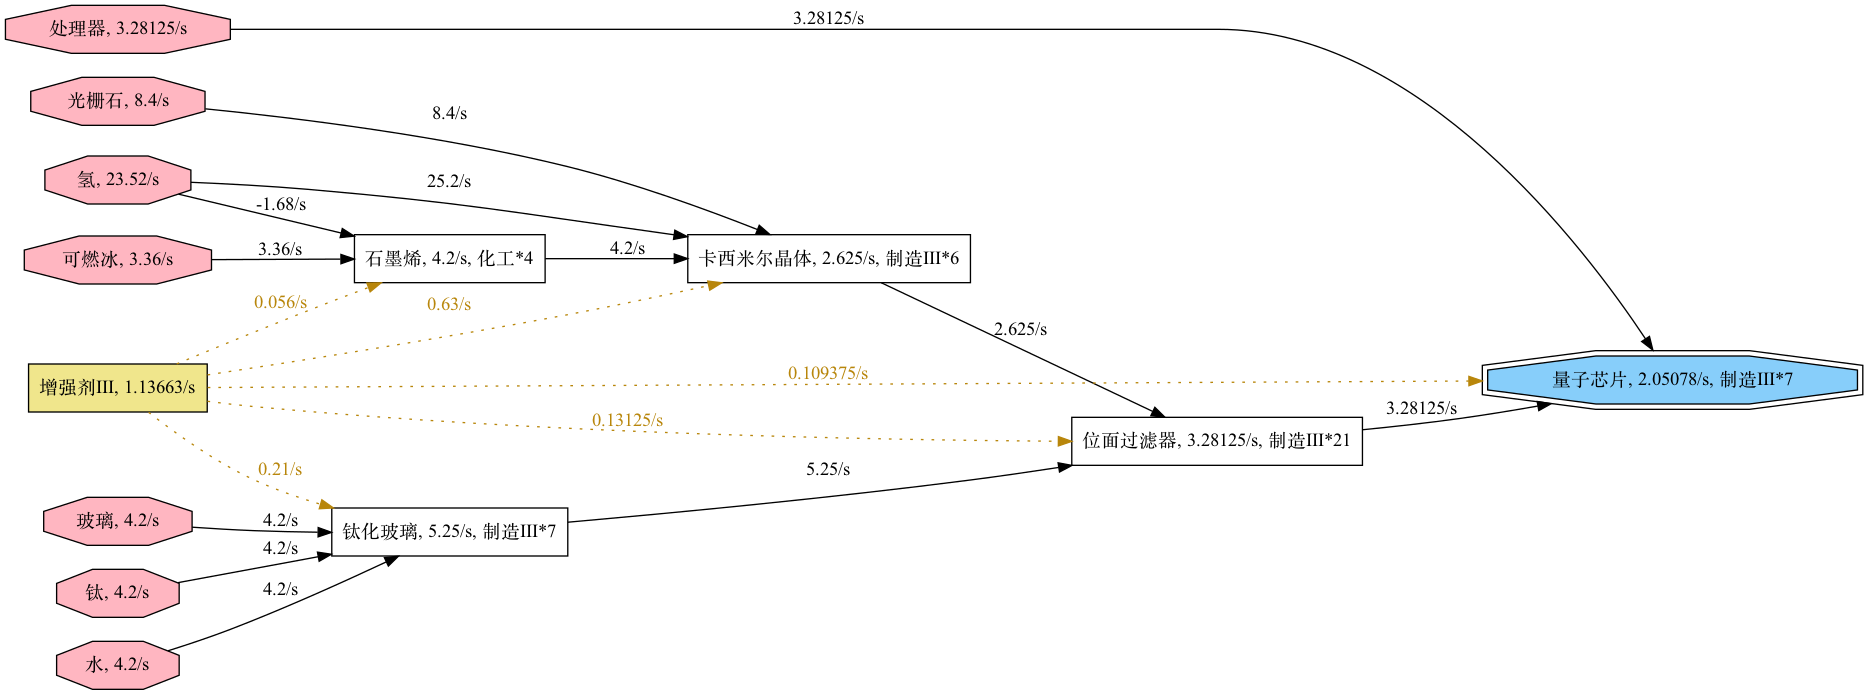
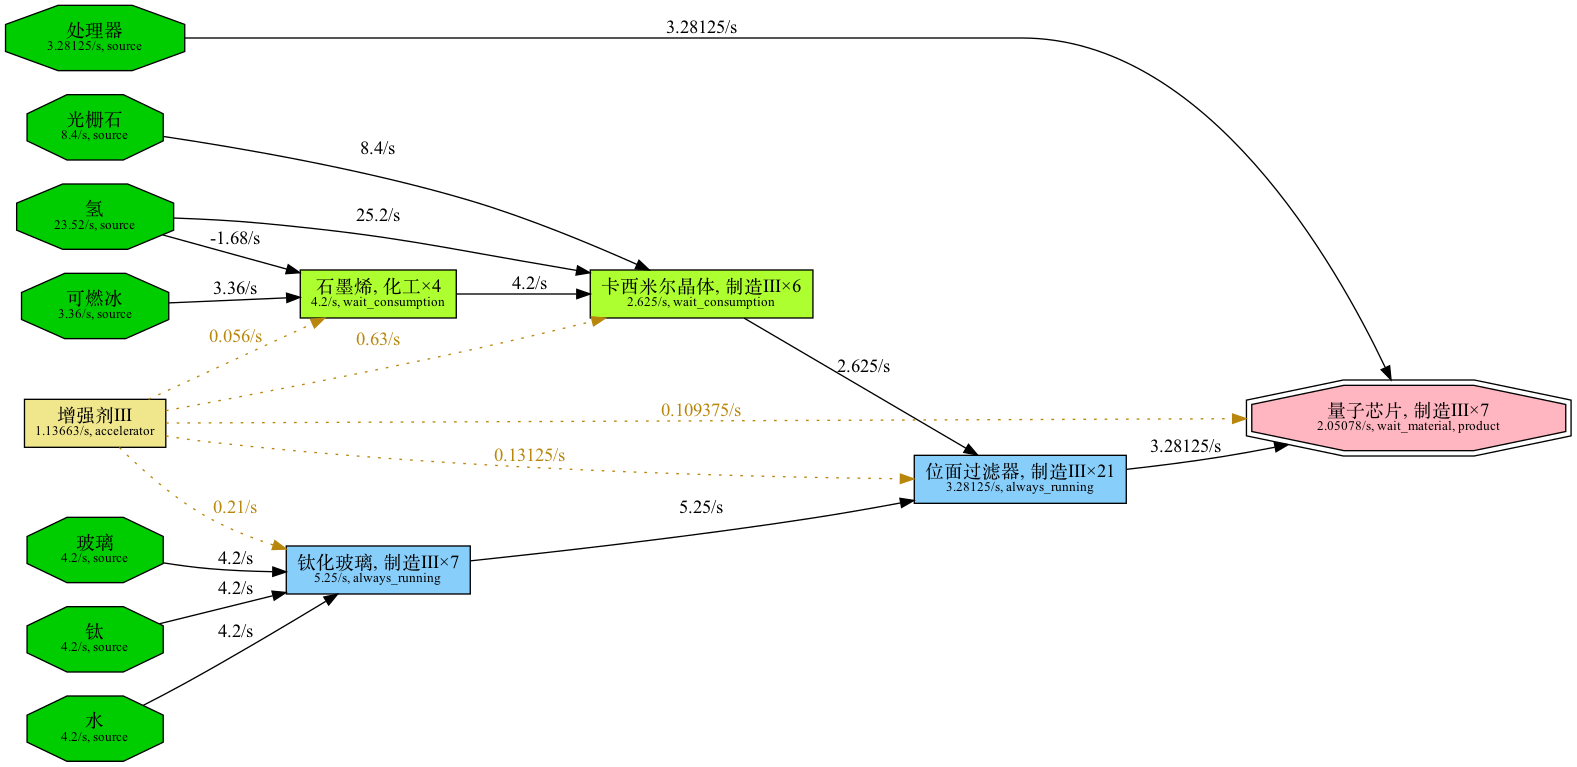
Better style

diff --git a/dyson.py b/dyson.py
@@ -45,6 +45,19 @@ class Def:
     # state == 3: max_rate_from_consumer is minimum, machine will stuck eventually (priority 2)
 
 
+def state_str(state: int):
+    if state == 0:
+        return "unknown"
+    elif state == 1:
+        return "wait_material"
+    elif state == 2:
+        return "always_running"
+    elif state == 3:
+        return "wait_consumption"
+    else:
+        return "invalid"
+
+
 def strip_prefix(s: str, prefix: str) -> str:
     if not s.startswith(prefix):
         raise ValueError("`{}` does not start with `{}`".format(s, prefix))
@@ -425,25 +438,47 @@ class Dyson:
         for sym, def_ in self._def.items():
             if not def_.visited:
                 continue
-            label_parts = [def_.name, "{:.6g}/s".format(def_.actual_rate)]
+
+            label_caption_part = [def_.name]
+            label_detail_part = [
+                "{:.6g}/s".format(def_.actual_rate),
+            ]
             if def_.process is not None:
                 process = self._process[def_.process]
                 machine = self._machine[process.machine]
-                label_parts.append("{}*{}".format(machine.name,
-                                                  def_.machine_count))
-            parts = ['label = "{}"'.format(", ".join(label_parts))]
+                label_caption_part.append("{}×{}".format(
+                    machine.name, def_.machine_count))
+            if def_.is_source:
+                label_detail_part.append("source")
+            else:
+                label_detail_part.append(state_str(def_.state))
+            if def_.is_product:
+                label_detail_part.append("product")
+            label = '<{}<BR /><FONT POINT-SIZE="10">{}</FONT>>'.format(
+                ", ".join(label_caption_part), ", ".join(label_detail_part))
+
+            parts = ['label = {}'.format(label)]
             if def_.is_source:
                 parts.append('shape = "octagon"')
                 parts.append('style = "filled"')
-                parts.append('fillcolor = "lightpink"')
+                parts.append('fillcolor = "green3"')
                 sources.append(sym)
-            elif def_.is_product:
-                parts.append('shape = "doubleoctagon"')
-                parts.append('style = "filled"')
-                parts.append('fillcolor = "lightskyblue"')
-                products.append(sym)
             else:
-                parts.append('shape = "box"')
+                if def_.is_product:
+                    parts.append('shape = "doubleoctagon"')
+                    products.append(sym)
+                else:
+                    parts.append('shape = "box"')
+                if def_.state == 1:
+                    parts.append('style = "filled"')
+                    parts.append('fillcolor = "lightpink"')
+                elif def_.state == 2:
+                    parts.append('style = "filled"')
+                    parts.append('fillcolor = "lightskyblue"')
+                elif def_.state == 3:
+                    parts.append('style = "filled"')
+                    parts.append('fillcolor = "greenyellow"')
+
             print('    {} [{}]'.format(sym, ", ".join(parts)))
 
         for sym, def_ in self._def.items():
@@ -476,10 +511,9 @@ class Dyson:
                 acc_point[process.acc]["total"] += acc_rate
 
         for acc_sym, r in acc_point.items():
-            parts = [r["name"], "{:.6g}/s".format(r["total"])]
             print(
-                '    {} [label = "{}", shape = "box", style = "filled", fillcolor = "khaki"]'
-                .format(acc_sym, ", ".join(parts)))
+                '    {} [label = <{}<BR /><FONT POINT-SIZE="10">{}, accelerator</FONT>>, shape = "box", style = "filled", fillcolor = "khaki"]'
+                .format(acc_sym, r["name"], "{:.6g}/s".format(r["total"])))
 
         for r in acc_record:
             print(
